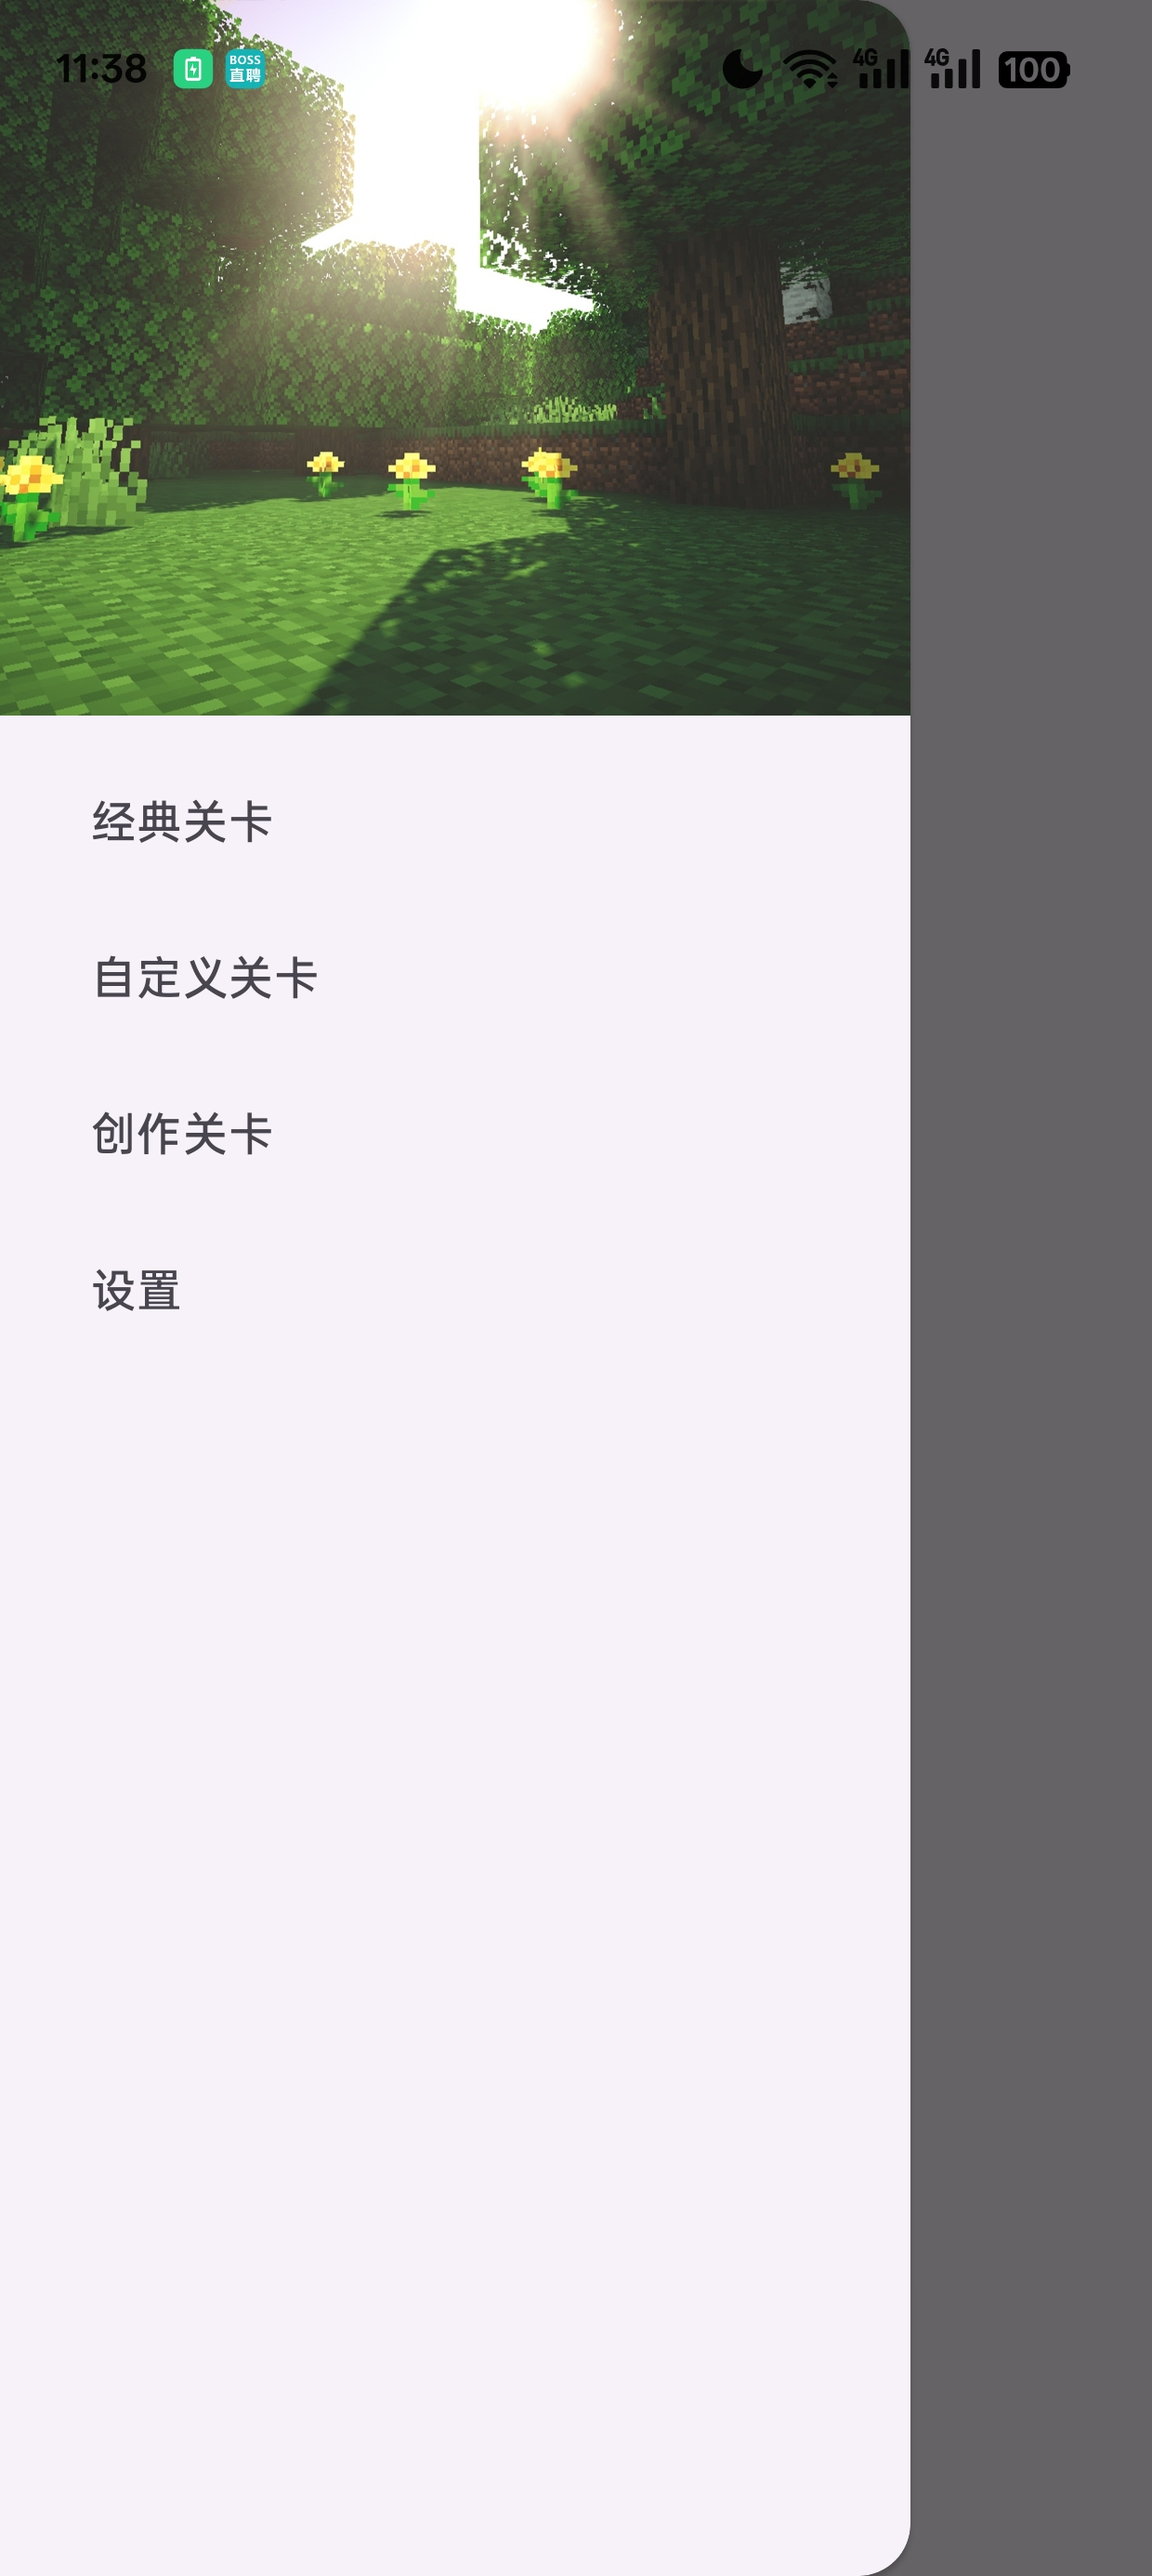
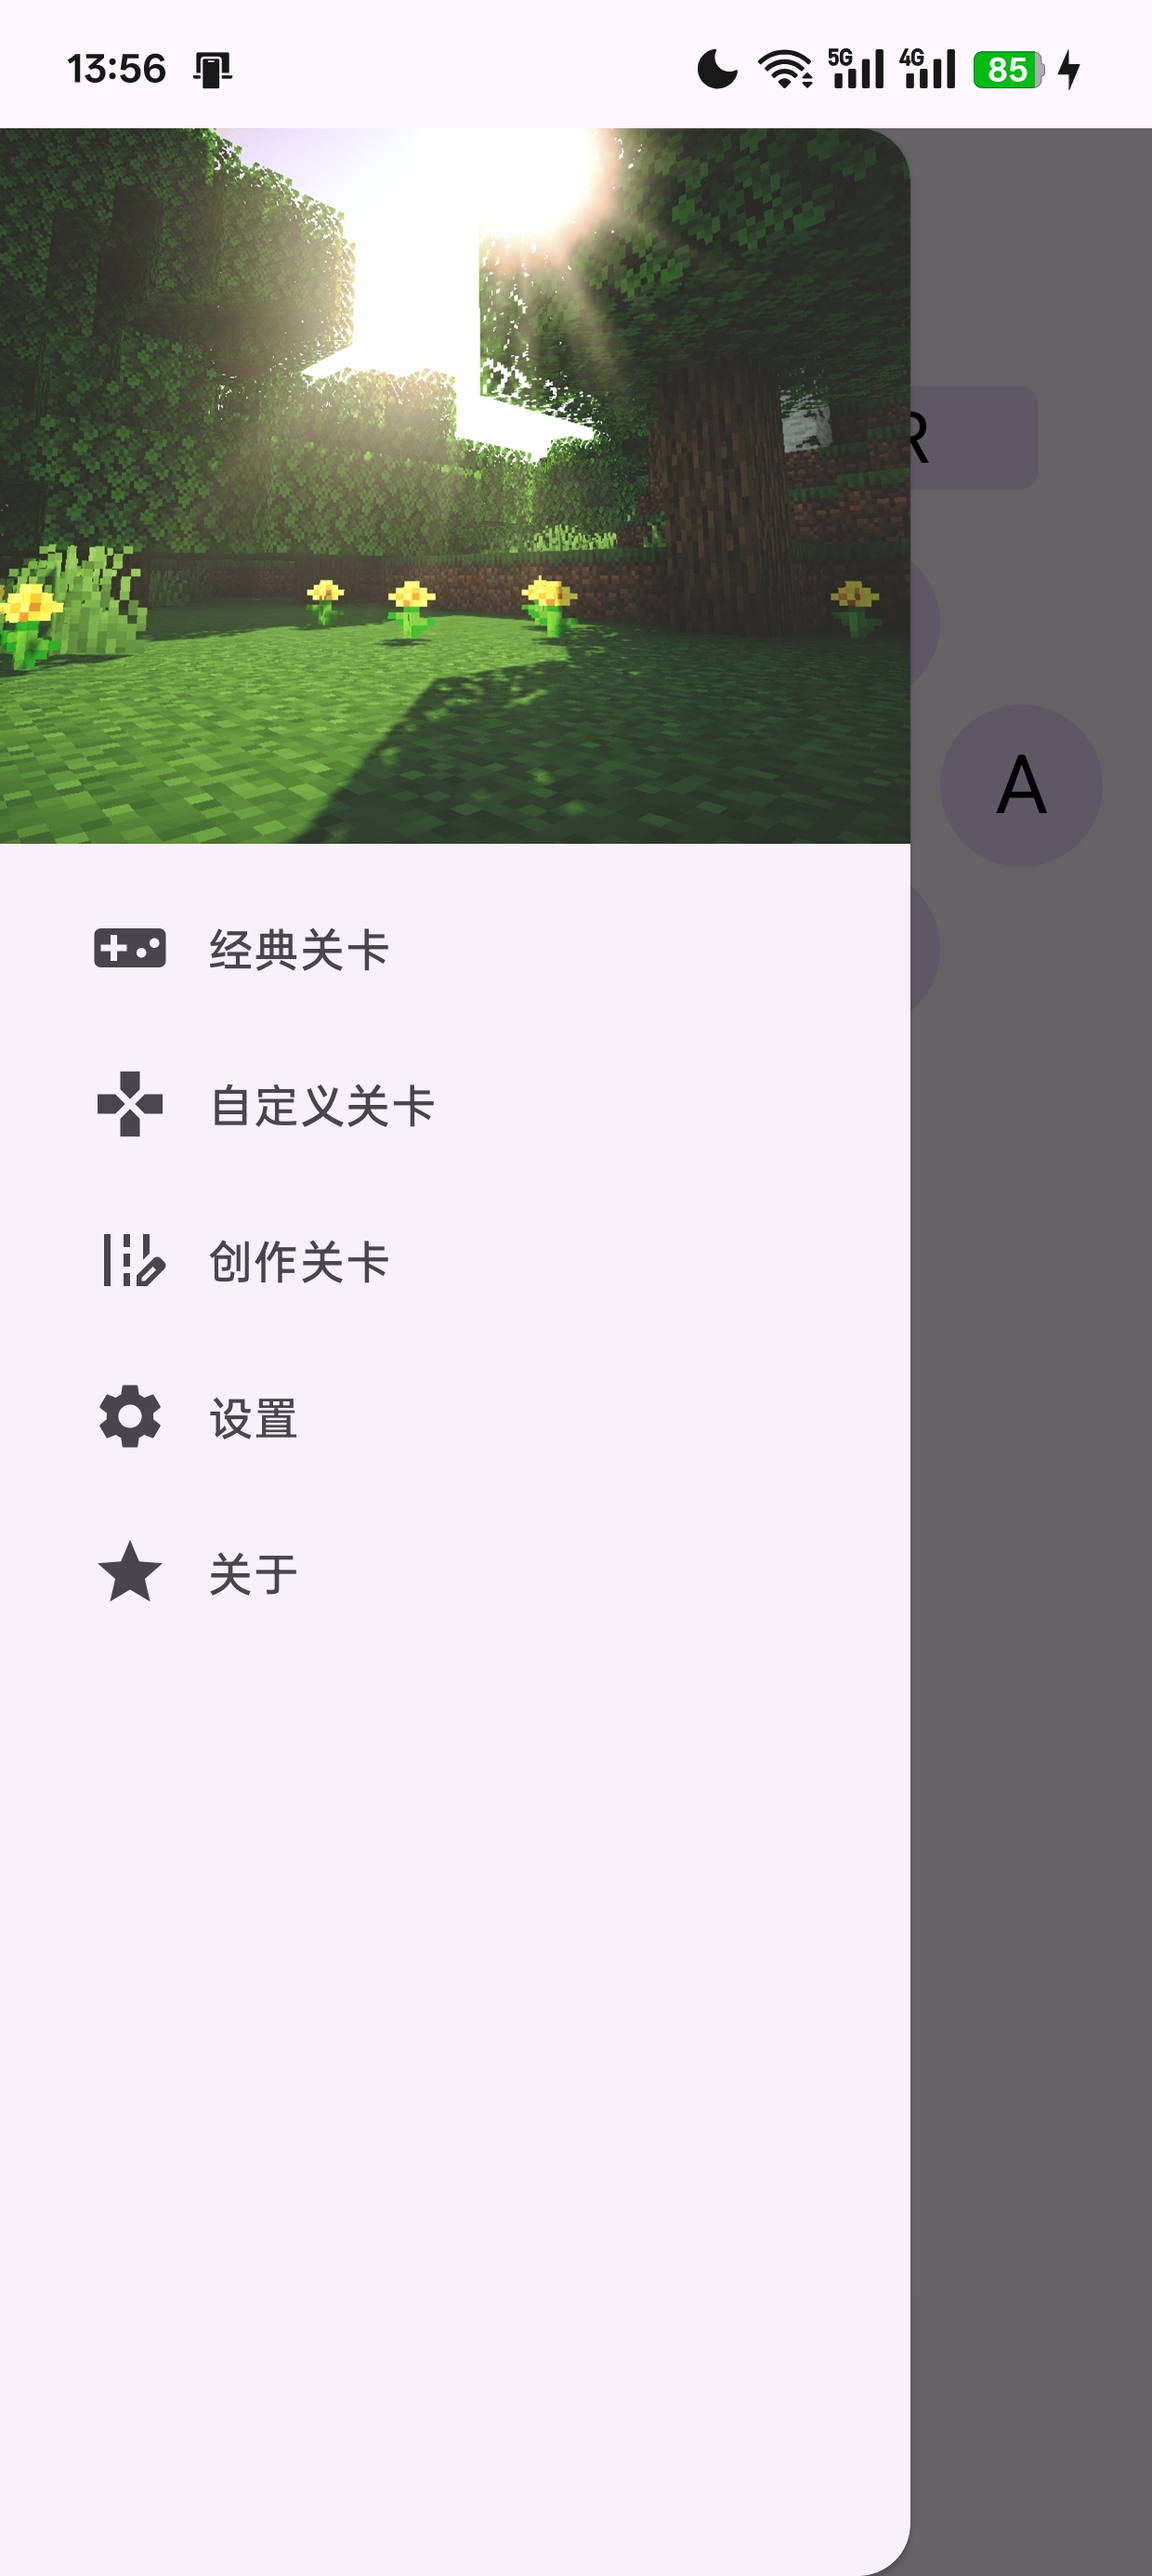
README.md changed

diff --git a/README.md b/README.md
@@ -36,9 +36,10 @@
 
 ## 游戏截图
 
-| 主界面 | 游戏中（纯色皮肤） | 游戏中（经典皮肤） | 关卡编辑器 |
-|--------|--------------------|--------------------|------------|
-| ![home](screenshots/ss_left.jpg) | ![game_clean](screenshots/ss_skin_pure.jpg) | ![game_classic](screenshots/ss_classic.jpg) | ![editor](screenshots/ss_cl.jpg) |
+| 主界面 | 游戏中（纯色皮肤）                                      | 游戏中（经典皮肤） | 关卡编辑器 |
+|--------|------------------------------------------------|--------------------|------------|
+| ![home](screenshots/ss_left.jpg) | ![game_clean](screenshots/ss_skin_pure.jpg)    | ![game_classic](screenshots/ss_classic.jpg) | ![editor](screenshots/ss_cl.jpg) |
+| ![home](screenshots/ss_main_land.jpg) | ![game_clean](screenshots/ss_classic_land.jpg) |  |
 
 ## 安装方式
 
@@ -54,7 +55,7 @@
 本地持久化：Room 数据库持久化自定义关卡数据 + SharedPreferences 持久化设置数据
 完全离线运行，无广告、无任何权限
 
-致谢
+### 致谢
 
 关卡数据来源于经典 YASS 88 关合集：[leoliu/sokoban](https://github.com/leoliu/sokoban)
 
